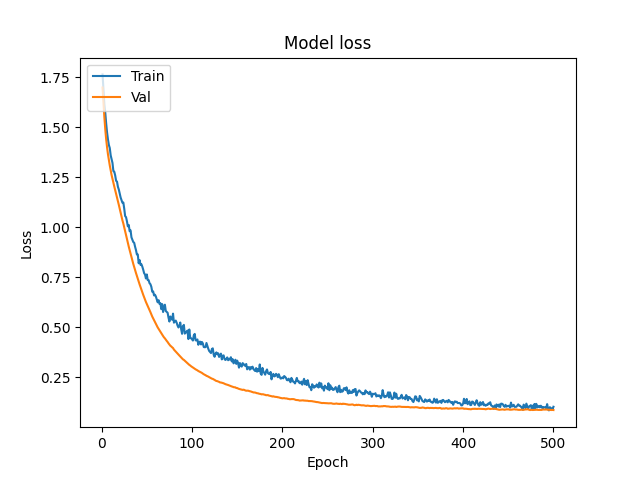
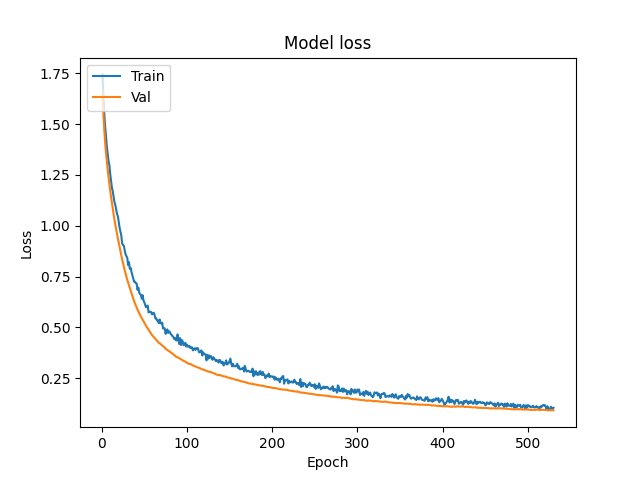
motion retrain

diff --git a/room_motion_activity/ascc_room_motion_activity_test.py b/room_motion_activity/ascc_room_motion_activity_test.py
@@ -29,9 +29,9 @@ DATA_SET_FILE = 'ascc_dataset/ascc_v1_raw.txt'
 
 MOTION_ACTIVITY_MAPPING = {
     0: 'jogging',
-    1: 'laying',
-    2: 'sitting',
-    3: 'squating',
+    1: 'jumping',
+    2: 'laying',
+    3: 'sitting',
     4: 'standing',
     5: 'walking'
 }
@@ -1434,27 +1434,49 @@ MOTION_ACTIVITY_MAPPING = {
     4: 'standing',
     5: 'walking'
 }
+
+
+Jogging:0
+Jump:1
+Laying:2
+Sit : 3
+Stand:4
+Walk: 5
+
 '''
 def test_dnn():
 
-    # get_activity_by_motion_dnn('20220729102338', 'Sitting' ) # 2, g
+    # get_activity_by_motion_dnn('20220729102338', 'Sitting' ) # 3, g
     # get_activity_by_motion_dnn('20220729103312', 'Stand' ) # 2, 3(8) 4(13), bad
     # get_activity_by_motion_dnn('20220729105500', 'walking') # 5 g
-    # get_activity_by_motion_dnn('20220729111901', 'jogging') # 0, g
-    # get_activity_by_motion_dnn('20220729104633', 'Laying') # 1, g
+    #get_activity_by_motion_dnn('20220729111901', 'jogging') # 0, g
+    #get_activity_by_motion_dnn('20220729104633', 'Laying') # 1, g
     # get_activity_by_motion_dnn('20220729110944', 'Squating') # 3 good
 
     # 0802
-    # get_activity_by_motion_dnn('20220804150956', 'Sitting' ) # 4(7), 2(21), w
+    # get_activity_by_motion_dnn('20220804150956', 'Sitting' ) # 3 g
+    # get_activity_by_motion_dnn('20220729102338', 'Sitting' ) # 3, g
     # get_activity_by_motion_dnn('20220802155756', 'Stand' ) # 4, g
-    # get_activity_by_motion_dnn('20220802163654', 'walking') # 5, g
-    #get_activity_by_motion_dnn('20220802164744', 'jogging') # 0, g
-    #get_activity_by_motion_dnn('20220802161356', 'Laying') # 1, g
-    # get_activity_by_motion_dnn('20220804153242', 'Squating') # 3 g
+    get_activity_by_motion_dnn('20220802163654', 'walking') # 5, g
+    # get_activity_by_motion_dnn('20220802164744', 'jogging') # 0, g
+    # get_activity_by_motion_dnn('20220802161356', 'Laying') # 2, g
+    # get_activity_by_motion_dnn('20220813194748', 'Jump') # 1 good
 
-    # get_activity_by_motion_dnn('20220804151607', 'Sit_Stand_Walk_in_kitchen')
-    #get_activity_by_motion_dnn('2009-12-11-10-06-38', 'sitting?')
-    get_activity_by_motion_dnn('walk', 'test?')
+    # 0816
+    # get_activity_by_motion_dnn('20220816100412', 'Sitting' ) # 5, 3, soso
+    # get_activity_by_motion_dnn('20220816100251', 'Stand' ) # 4, g
+    # get_activity_by_motion_dnn('20220816100117', 'walking') # 5, g
+    # get_activity_by_motion_dnn('20220816101007', 'jogging') # 0, g
+    # get_activity_by_motion_dnn('20220816101552', 'Laying') # 2, g
+    # get_activity_by_motion_dnn('20220816110035', 'Jump') # 1 good
+
+    # get_activity_by_motion_dnn('20220816092139', 'Stand_Walk')
+    # get_activity_by_motion_dnn('20220816092014', 'Stand_Walk')
+
+    
+    # get_activity_by_motion_dnn('20220816130042', 'sitting') ## new data
+    # get_activity_by_motion_dnn('20220816130634', 'stand')
+    # get_activity_by_motion_dnn('walk', 'test?')
 
     
 
@@ -1465,9 +1487,9 @@ if __name__ == "__main__":
 
     log.init_log("./log/my_program")  # ./log/my_program.log./log/my_program.log.wf7
     logging.info("Hello World!!!")
-    #test()
-    # test_dnn()
-    run()
+    # test()
+    test_dnn()
+    # run()
     
 
 

diff --git a/room_motion_activity/motion_data_convert.py b/room_motion_activity/motion_data_convert.py
@@ -50,12 +50,14 @@ file_dict_0729 = {
 # 0802
 # cat sitting.txt |grep motion.t | awk -F '/' '{print $7}'
 file_dict_0802 = {
-    'Sitting': ['20220802153639','20220802153834', '20220802154011', '20220802154120', '20220802154247', '20220802154353', '20220802154525'],
-    'Standing': ['20220802154807', '20220802155005', '20220802155122', '20220802155239', '20220802155401', '20220802155508', '20220802155625'],
-    'Walking': ['20220802162705', '20220802162828', '20220802162942', '20220802163115', '20220802163230', '20220802163402', '20220802163531'],
-    'Jogging': ['20220802163842', '20220802163958', '20220802164113', '20220802164235', '20220802164401', '20220802164520', '20220802164632'],
-    'Laying': ['20220802160005', '20220802160304', '20220802160552', '20220802160728', '20220802160847', '20220802161000', '20220802161124'],
-    'Jumping': ['20220813190620','20220813190845','20220813191544','20220813191832','20220813192103','20220813192230','20220813192411','20220813192749','20220813192749','20220813192859','20220813193408','20220813193450','20220813193700', '20220813193750', '20220813193954', '20220813194107','20220813194413', '20220813194451', '20220813194451', '20220813194626']
+    # 'Sitting': ['20220802153639','20220802153834', '20220802154011', '20220802154120', '20220802154247', '20220802154353', '20220802154525', '20220816094907', '20220816094944', '20220816095021', '20220816095057', '20220816095134', '20220816095213'],
+    'Sitting': ['20220802153639','20220802153834', '20220802154011', '20220802154120', '20220802154247', '20220802154353', '20220802154525', '20220816125604', '20220816125806', '20220816125918'],
+
+    'Standing': ['20220802154807', '20220802155005', '20220802155122', '20220802155239', '20220802155401', '20220802155508', '20220802155625', '20220816095312', '20220816095422', '20220816095530'],
+    'Walking': ['20220802162705', '20220802162828', '20220802162942', '20220802163115', '20220802163230', '20220802163402', '20220802163531', '20220816095657', '20220816095845', '20220816100000'],
+    'Jogging': ['20220802163842', '20220802163958', '20220802164113', '20220802164235', '20220802164401', '20220802164520', '20220802164632', '20220816100529', '20220816100715', '20220816100844'],
+    'Laying': ['20220802160005', '20220802160304', '20220802160552', '20220802160728', '20220802160847', '20220802161000', '20220802161124', '20220816101154', '20220816101319', '20220816101428'],
+    'Jumping': ['20220813190620','20220813190845','20220813191544','20220813191832','20220813192103','20220813192230','20220813192411','20220813192749','20220813192749','20220813192859','20220813193408','20220813193450','20220813193700', '20220813193750', '20220813193954', '20220813194107','20220813194413', '20220813194451', '20220813194451', '20220813194626', '20220816101828', '20220816102034', '20220816105844']
     #'Squating': ['20220804150140', '20220804150424', '20220804150717', '20220804151803', '20220804152135', '20220804152433', '20220804152921']
 }
 
